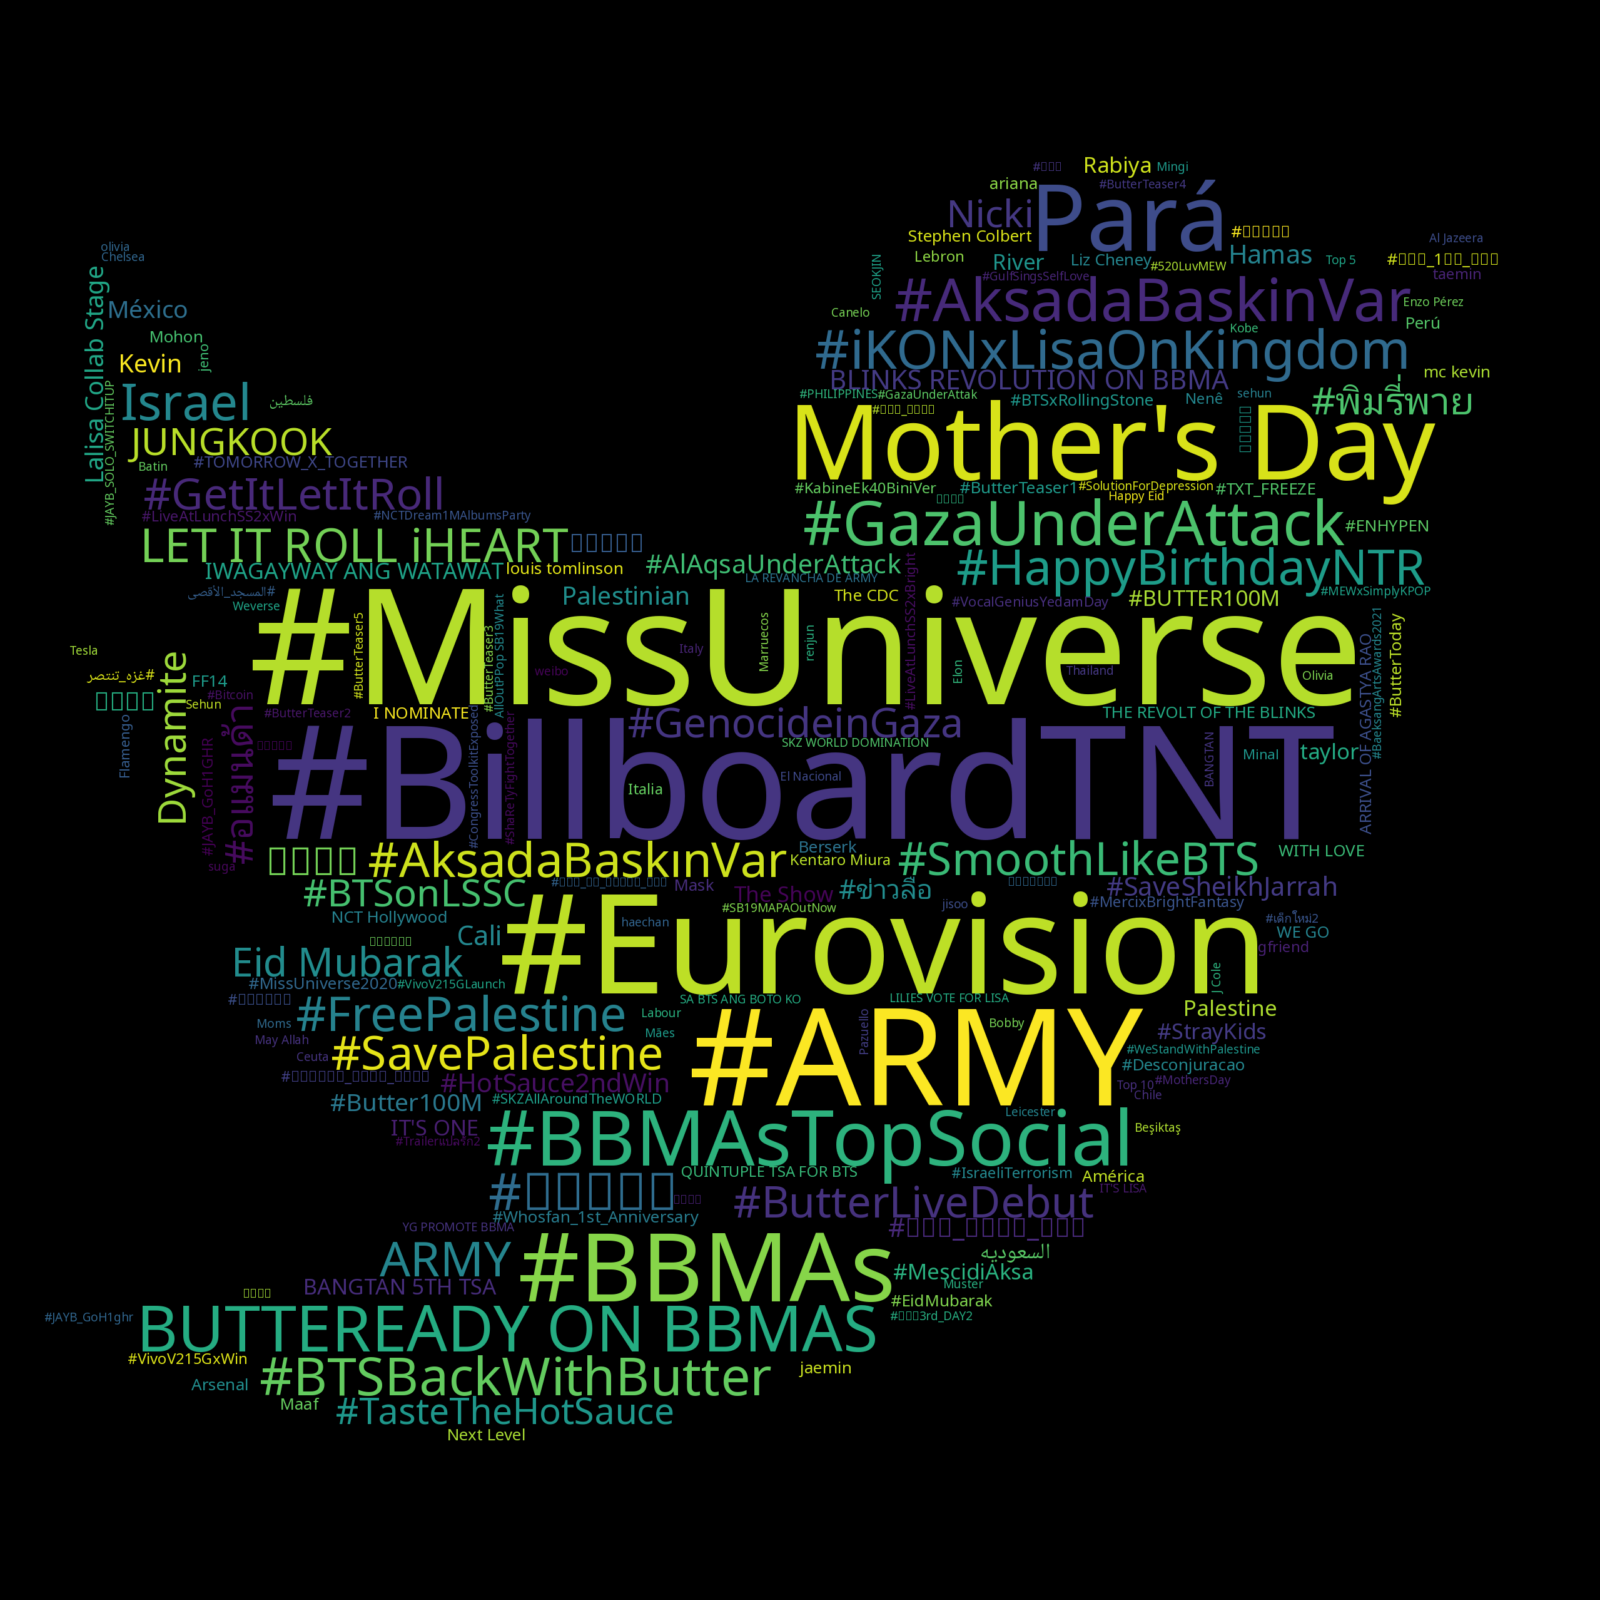
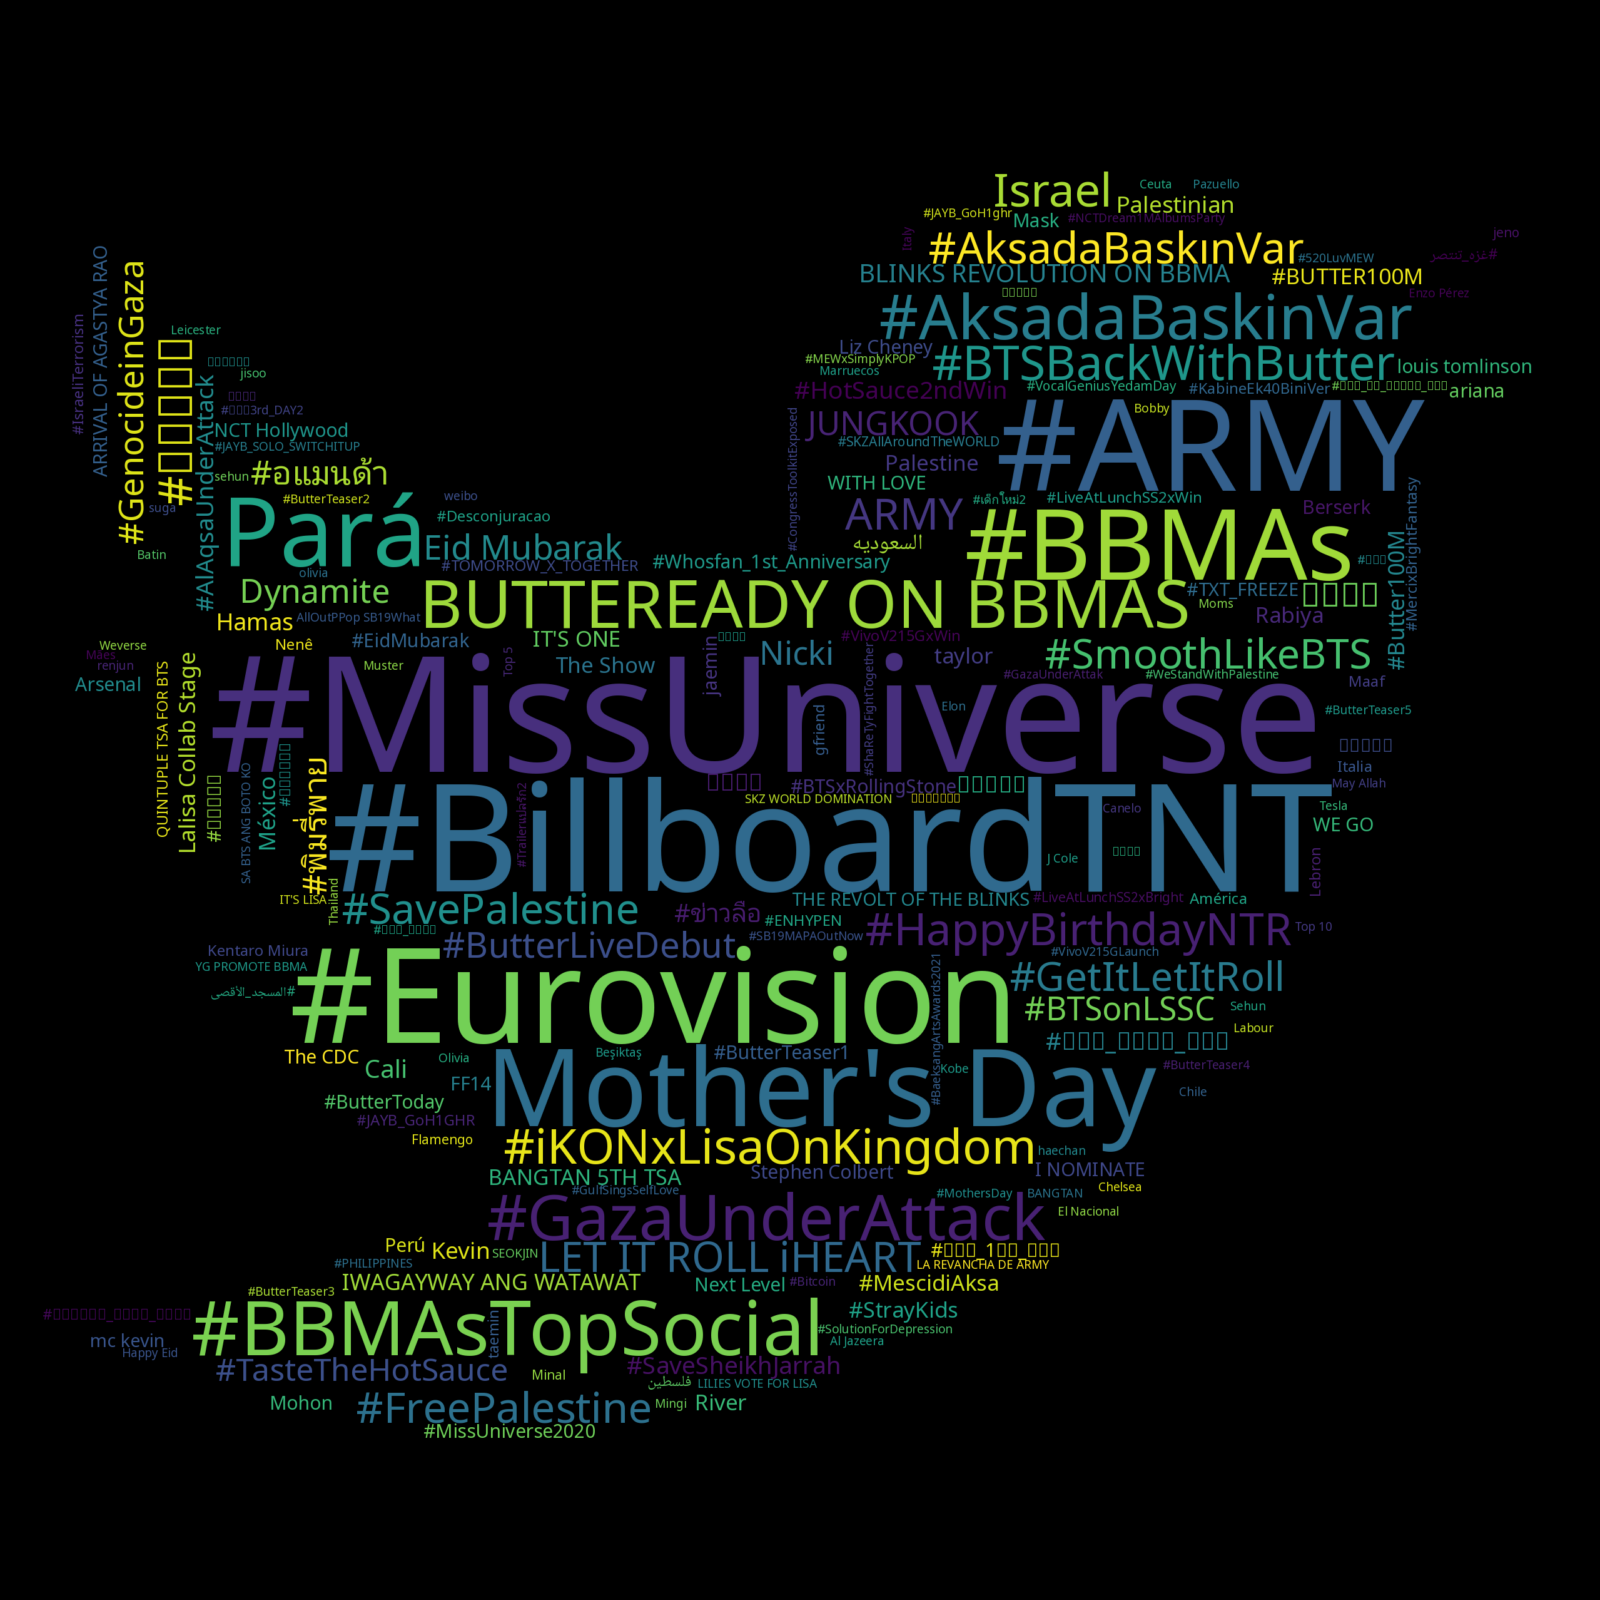
Get Sentiment analysis results for trends

Changed region(s): [[0.0312, 0.0938, 0.9375, 0.9062]]

diff --git a/nlp.py b/nlp.py
@@ -41,44 +41,24 @@ def plot_tags_freq(tags):
     ax.set_ylabel("log of counts")
     
     plt.tick_params(axis="x", which="major", labelsize=8)
-    plt.savefig("results/pos-tag-frequency.png")
+    plt.savefig(f"results/pos-tag-frequency.png")
 
 
-def sentiment_analyzer(tweets, num_tweets):
-    positive = 0
-    negative = 0
-    neutral = 0
-    polarity = 0
+def sentiment_analyzer(tweets, num_tweets, query, rank):
     tweet_list = []
-    neutral_list = []
-    negative_list = []
-    positive_list = []
+    rt_counts = []
+    favorite_counts = []
 
     for tweet in tweets:
         tweet_list.append(tweet.text)
+        rt_counts.append(tweet.retweet_count)
+        favorite_counts.append(tweet.favorite_count)
             
     tweet_list = pd.DataFrame(tweet_list)
-    analyze_tweets(tweet_list)
+    analyze_tweets(tweet_list, rt_counts, favorite_counts, query,  rank)
 
 
-def generate_sentiment_chart(query, idx, positive, negative, neutral):
-    plt.figure()
-    labels = [
-        f"Positive [{positive}%]",
-        f"Negative [{negative}%]",
-        f"Neutral [{neutral}%]",
-    ]
-    sizes = [positive, negative, neutral]
-    colors = ["yellowgreen", "red", "blue"]
-    patches, texts = plt.pie(sizes, colors=colors, startangle=90)
-    plt.style.use("default")
-    plt.legend(labels)
-    plt.title(f"Sentiment Analysis for trend - {query}")
-    plt.axis("equal")
-    plt.savefig(f"results/sentiment_{idx}.png")
-
-
-def analyze_tweets(tweet_list):
+def analyze_tweets(tweet_list, rt_counts, favorite_counts, query, rank):
     tweet_list.drop_duplicates(inplace=True)
 
     tw_list = pd.DataFrame(tweet_list)
@@ -110,22 +90,42 @@ def analyze_tweets(tweet_list):
         tw_list.loc[index, "pos"] = pos
         tw_list.loc[index, "neu"] = neu
         tw_list.loc[index, "compound"] = comp
+        tw_list.loc[index, "retweets"] = rt_counts[index]
+        tw_list.loc[index, "favoriites"] = favorite_counts[index]
 
-    tw_list.to_csv("results/tweets_with_sentiments.csv")
+    tw_list.to_csv(f"results/{rank}__tweets-with-sentiments.csv")
 
     tw_list_negative = tw_list[tw_list["sentiment"] == "negative"]
     tw_list_positive = tw_list[tw_list["sentiment"] == "positive"]
     tw_list_neutral = tw_list[tw_list["sentiment"] == "neutral"]
 
+    total_count = len(tw_list)
+    negative_count = len(tw_list_negative)
+    positive_count = len(tw_list_positive)
+    neutral_count = len(tw_list_neutral)
+
+    positive_per = utils.percentage(positive_count, total_count)
+    negative_per = utils.percentage(negative_count, total_count)
+    neutral_per = utils.percentage(neutral_count, total_count)
+    
     sentiment_counts = utils.count_values_in_column(tw_list, "sentiment")
-    sentiment_counts.to_csv("results/sentiment_counts.csv")
+    sentiment_counts.to_csv(f"results/{rank}__sentiment-counts.csv")
 
     plt.figure()
-    names = sentiment_counts.index
-    size=sentiment_counts["Percentage"]
+    labels = [
+        f"Positive [{str(positive_per)}%]", 
+        f"Neutral [{str(neutral_per)}%]",
+        f"Negative [{str(negative_per)}%]"
+    ]
+    sizes = [positive_count, neutral_count, negative_count]
 
-    circle = plt.Circle((0,0), 0.7, color="white")
-    plt.pie(size, labels=names, colors=["green", "red", "blue"])
-    p = plt.gcf()
-    p.gca().add_artist(circle)
-    plt.savefig("results/sentiment_2.png")
+    plt.pie(
+        sizes, 
+        #labels=labels, 
+        colors=["yellowgreen", "blue", "red"],
+        startangle=90,
+        radius=0.6,
+    )
+    plt.legend(labels)
+    plt.title(f"Sentiment for {query}")
+    plt.savefig(f"results/{rank}__sentiment.png")

diff --git a/index.py b/index.py
@@ -1,4 +1,6 @@
 from PIL import Image, ImageChops
+from langdetect import detect
+from itertools import islice
 
 import pandas as pd
 import numpy as np
@@ -27,15 +29,15 @@ twitter_logo = Image.open("twitter_logo.png")
 twitter_mask = np.array(ImageChops.invert(twitter_logo))
 
 # Generate a wordcloud from name, and tweet_volume
-#wordcloud_util.generate_wordcloud(trend_phrases, tweet_frequency, twitter_mask)
+wordcloud_util.generate_wordcloud(trend_phrases, tweet_frequency, twitter_mask)
 
 
 """ POS TAGGING """
 
 # Get POS tags for the trend names
-#tags = nlp.get_tags(trend_phrases)
+tags = nlp.get_tags(trend_phrases)
 # Plot POS tags in descending log scale
-#nlp.plot_tags_freq(tags)
+nlp.plot_tags_freq(tags)
 
 
 """ USING TWEEPY """
@@ -46,9 +48,19 @@ sorted_trends = wordcloud_util.get_sorted_phrasecounts(
     tweet_frequency
 )
 
-""" TEST """
-num_tweets = 2
-query = "lebron"
 
-test_tweets = tweepy.Cursor(api.search, q=query).items(num_tweets)
-nlp.sentiment_analyzer(test_tweets, num_tweets)
+""" TEST """
+num_tweets = 10
+num_trends_to_analyze = 1
+
+idx=1
+for query, freq in islice(sorted_trends.items(), 0, num_trends_to_analyze):
+    query_tweets = tweepy.Cursor(
+        api.search, 
+        q=query, 
+        lang="en", 
+        show_user=False
+    ).items(num_tweets)
+
+    nlp.sentiment_analyzer(query_tweets, num_tweets, query, idx)
+    idx+=1

diff --git a/auth.py b/auth.py
@@ -15,5 +15,9 @@ def initialize():
     auth = tweepy.OAuthHandler(consumerKey, consumerSecret)
     auth.set_access_token(accessToken, accessTokenSecret)
 
-    api = tweepy.API(auth)
+    api = tweepy.API(
+        auth, 
+        wait_on_rate_limit=True, 
+        wait_on_rate_limit_notify=True
+    )
     return api

diff --git a/utils.py b/utils.py
@@ -2,7 +2,7 @@ import pandas as pd
 
 
 def percentage(part, whole):
-    return 100 * float(part) / float(whole)
+    return round(100 * float(part) / float(whole), 2)
 
 
 def count_values_in_column(data, feature):
